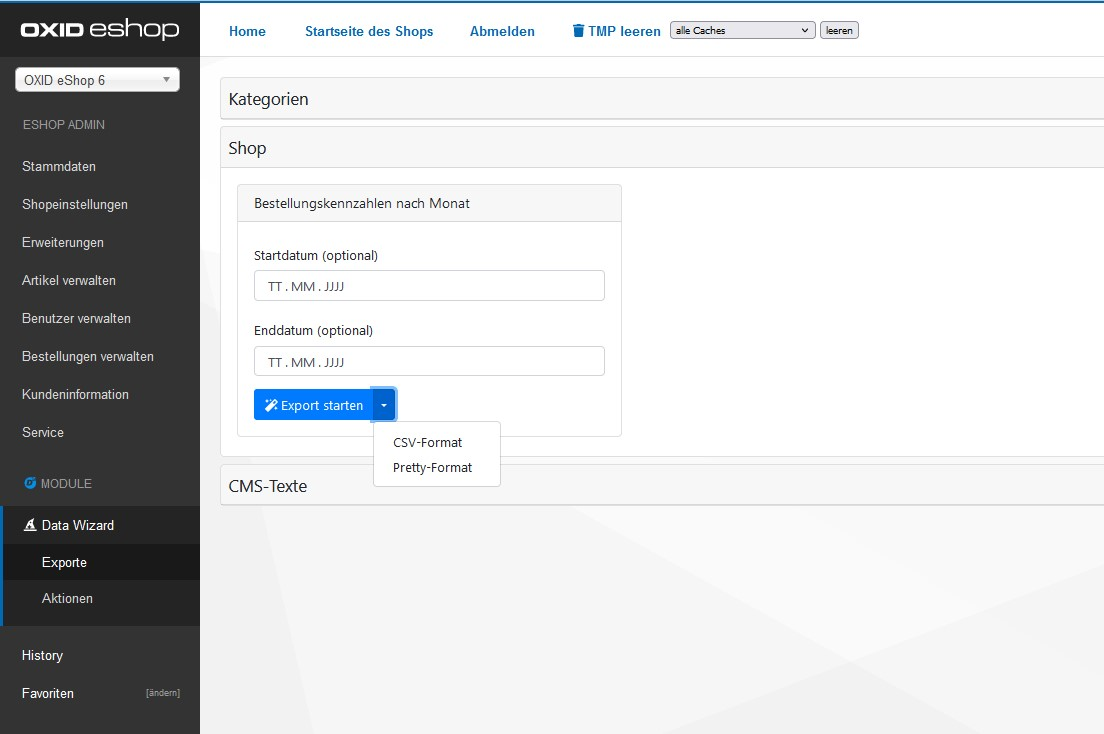
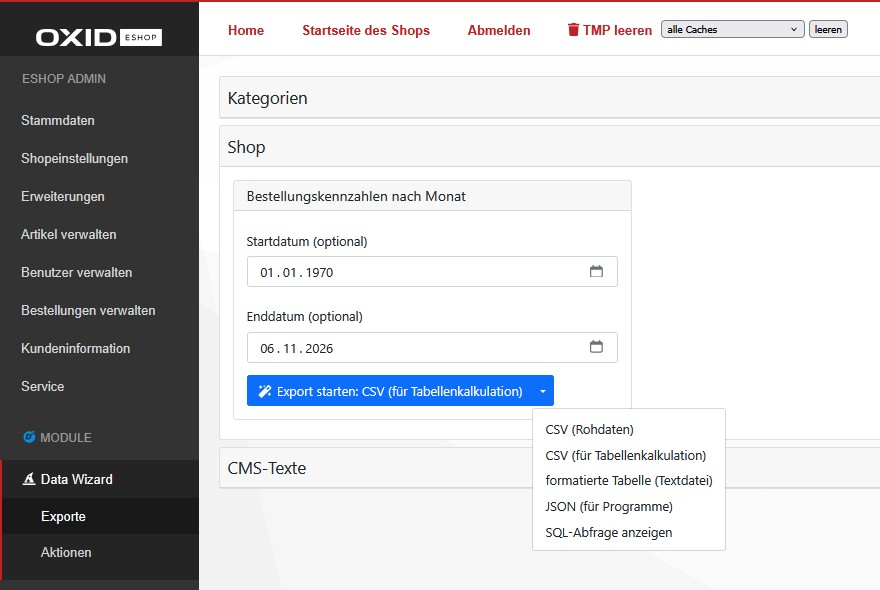
update documentation

diff --git a/Application/views/en/d3DataWizard_translations.php b/Application/views/en/d3DataWizard_translations.php
@@ -32,27 +32,28 @@ return [
     'D3_DATAWIZARD_GROUP_CMS'                         => 'CMS items',
     'D3_DATAWIZARD_GROUP_USERS'                       => 'users',
 
-    'D3_DATAWIZARD_EXPORT_SUBMIT'                     => 'generate export',
+    'D3_DATAWIZARD_EXPORT_SUBMIT'                     => 'Start export',
     'D3_DATAWIZARD_EXPORT_SUBMIT_FORMAT'              => '%1$s: %2$s',
     'D3_DATAWIZARD_EXPORT_FORMAT_CSV'                 => 'CSV (raw data)',
     'D3_DATAWIZARD_EXPORT_FORMAT_CSV_SPREADSHEET'     => 'CSV (for spreadsheets)',
     'D3_DATAWIZARD_QUERY_PREVIEW'                     => 'Show SQL query',
     'D3_DATAWIZARD_ACTION_OPTIONS'                    => 'Open action options',
-    'D3_DATAWIZARD_EXPORT_FORMAT_PRETTY'              => 'Pretty format',
-    'D3_DATAWIZARD_EXPORT_FORMAT_JSON'                => 'JSON format',
+    'D3_DATAWIZARD_EXPORT_OPTIONS'                    => 'Open export formats and other options',
+    'D3_DATAWIZARD_EXPORT_FORMAT_PRETTY'              => 'Formatted table (text file)',
+    'D3_DATAWIZARD_EXPORT_FORMAT_JSON'                => 'JSON (for programs)',
 
-    'D3_DATAWIZARD_ACTION_SUBMIT'                     => 'run action',
+    'D3_DATAWIZARD_ACTION_SUBMIT'                     => 'Start action',
     'D3_DATAWIZARD_ACTION_SUBMIT_CONFIRM'             => 'Should the action be executed?',
 
-    'D3_DATAWIZARD_DEBUG'                             => 'Debug: %1$s',
+    'D3_DATAWIZARD_DEBUG'                             => 'SQL query: %1$s',
 
-    'D3_DATAWIZARD_ERR_NOEXPORTSELECT'                => 'Export cannot be executed. Exports require SELECT Query.',
+    'D3_DATAWIZARD_ERR_NOEXPORTSELECT'                => 'The export cannot be run. Please contact your technical support.',
     'D3_DATAWIZARD_ERR_NOEXPORT_INSTALLED'            => 'No exports are installed or activated.',
     'D3_DATAWIZARD_ERR_NOEXPORTCONTENT'               => 'Export is empty, no content available for download',
-    'D3_DATAWIZARD_ERR_NOSUITABLERENDERER'            => 'No renderer registered for format "%1$s"',
+    'D3_DATAWIZARD_ERR_NOSUITABLERENDERER'            => 'The export format "%1$s" is not available.',
     'D3_DATAWIZARD_ERR_EXPORTFILEERROR'               => 'Export file "%1$s" cannot be created',
 
-    'D3_DATAWIZARD_ERR_ACTIONSELECT'                  => 'Action cannot be executed. Actions cannot export SELECTs.',
+    'D3_DATAWIZARD_ERR_ACTIONSELECT'                  => 'The action cannot be run. Please contact your technical support.',
     'D3_DATAWIZARD_ERR_NOACTION_INSTALLED'            => 'No actions are installed or activated.',
     'D3_DATAWIZARD_ERR_ACTIONRESULT'                  => '%1$s entry changed',
     'D3_DATAWIZARD_ERR_ACTIONRESULTS'                 => '%1$s entries changed',

diff --git a/Application/views/de/d3DataWizard_translations.php b/Application/views/de/d3DataWizard_translations.php
@@ -37,21 +37,22 @@ return [
     'D3_DATAWIZARD_EXPORT_FORMAT_CSV_SPREADSHEET'     => 'CSV (für Tabellenkalkulation)',
     'D3_DATAWIZARD_QUERY_PREVIEW'                     => 'SQL-Abfrage anzeigen',
     'D3_DATAWIZARD_ACTION_OPTIONS'                    => 'Aktionsoptionen öffnen',
-    'D3_DATAWIZARD_EXPORT_FORMAT_PRETTY'              => 'Pretty-Format',
-    'D3_DATAWIZARD_EXPORT_FORMAT_JSON'                => 'JSON-Format',
+    'D3_DATAWIZARD_EXPORT_OPTIONS'                    => 'Exportformate und weitere Optionen öffnen',
+    'D3_DATAWIZARD_EXPORT_FORMAT_PRETTY'              => 'formatierte Tabelle (Textdatei)',
+    'D3_DATAWIZARD_EXPORT_FORMAT_JSON'                => 'JSON (für Programme)',
 
     'D3_DATAWIZARD_ACTION_SUBMIT'                     => 'Aktion starten',
     'D3_DATAWIZARD_ACTION_SUBMIT_CONFIRM'             => 'Soll die Aktion gestartet werden?',
 
-    'D3_DATAWIZARD_DEBUG'                             => 'Debug: %1$s',
+    'D3_DATAWIZARD_DEBUG'                             => 'SQL-Abfrage: %1$s',
 
-    'D3_DATAWIZARD_ERR_NOEXPORTSELECT'                => 'Export kann nicht ausgeführt werden. Exporte erfordern SELECT Query.',
+    'D3_DATAWIZARD_ERR_NOEXPORTSELECT'                => 'Der Export kann nicht ausgeführt werden. Bitte wenden Sie sich an Ihre technische Betreuung.',
     'D3_DATAWIZARD_ERR_NOEXPORT_INSTALLED'            => 'Es sind keine Exporte installiert oder aktiviert.',
     'D3_DATAWIZARD_ERR_NOEXPORTCONTENT'               => 'Export ist leer, kein Inhalt zum Download verfügbar',
-    'D3_DATAWIZARD_ERR_NOSUITABLERENDERER'            => 'kein Renderer für Format "%1$s" registriert',
+    'D3_DATAWIZARD_ERR_NOSUITABLERENDERER'            => 'Das Exportformat "%1$s" ist nicht verfügbar.',
     'D3_DATAWIZARD_ERR_EXPORTFILEERROR'               => 'Exportdatei "%1$s" kann nicht angelegt werden',
 
-    'D3_DATAWIZARD_ERR_ACTIONSELECT'                  => 'Aktion kann nicht ausgeführt werden. Aktionen können keine SELECTs exportieren.',
+    'D3_DATAWIZARD_ERR_ACTIONSELECT'                  => 'Die Aktion kann nicht ausgeführt werden. Bitte wenden Sie sich an Ihre technische Betreuung.',
     'D3_DATAWIZARD_ERR_NOACTION_INSTALLED'            => 'Es sind keine Aktionen installiert oder aktiviert.',
     'D3_DATAWIZARD_ERR_ACTIONRESULT'                  => '%1$s Eintrag verändert',
     'D3_DATAWIZARD_ERR_ACTIONRESULTS'                 => '%1$s Einträge verändert',

diff --git a/tests/unit/Application/Model/Exceptions/NoSuitableRendererExceptionTest.php b/tests/unit/Application/Model/Exceptions/NoSuitableRendererExceptionTest.php
@@ -44,7 +44,7 @@ class NoSuitableRendererExceptionTest extends d3ModCfgUnitTestCase
         $this->_oModel = oxNew(NoSuitableRendererException::class, 'testMessage', $exception);
 
         $this->assertStringContainsString(
-            'kein Renderer f',
+            'Das Exportformat',
             $this->callMethod(
                 $this->_oModel,
                 'getMessage'

diff --git a/tests/unit/Application/Model/Exceptions/DebugExceptionTest.php b/tests/unit/Application/Model/Exceptions/DebugExceptionTest.php
@@ -44,7 +44,7 @@ class DebugExceptionTest extends d3ModCfgUnitTestCase
         $this->_oModel = oxNew(DebugException::class, 'testMessage', $exception);
 
         $this->assertStringContainsString(
-            'Debug: testMessage',
+            'SQL-Abfrage: testMessage',
             $this->callMethod(
                 $this->_oModel,
                 'getMessage'

diff --git a/README.md b/README.md
@@ -3,15 +3,11 @@
 
 # D³ Data Wizard für OXID eShop
 
-Das Modul `DataWizard` bietet ein Framework zur einfachen Integration von Exporten und ausführbaren Tasks über den Adminbereich des OXID Shops.
+Der Data Wizard stellt im OXID-Adminbereich Exporte und Aktionen bereit. Exporte bereiten Daten für den Download auf; Aktionen können Daten im Shop verändern. Die verfügbaren Einträge sind zur besseren Übersicht in Gruppen zusammengefasst.
 
-Die Exporte werden über Datenbankabfragen oder fertige Datenlisten definiert. Es stehen verschiedene Exportformate zur Verfügung. Die Generierung ist jederzeit und immer wiederkehrend möglich (im Rahmen der Systemgrenzen). Diese werden im Browser als Download angeboten.
+Das Grundmodul enthält selbst keine Exporte oder Aktionen. Diese werden durch Erweiterungen wie `d3/datawizardtasks` oder durch individuelle Anpassungen bereitgestellt.
 
-Alle Exporte bzw. Tasks sind für eine bessere Übersichtlichkeit in Gruppen zusammengefasst.
-
-Im Paket `d3/datawizardtasks` sind Beispielexporte enthalten. Diese sollen als Implementierungsreferenz für individuelle Exporte dienen.
-
-![Adminbereich](assets/administration_exports.jpg "Adminbereich")
+![Beispiel eines Exports im Adminbereich mit geöffnetem Formatmenü](assets/administration_exports.jpg)
 
 ## Inhaltsverzeichnis
 
@@ -28,38 +24,45 @@ Im Paket `d3/datawizardtasks` sind Beispielexporte enthalten. Diese sollen als I
 
 Dieses Paket erfordert einen mit Composer installierten OXID eShop in einer in der [composer.json](composer.json) definierten Version.
 
-Öffnen Sie eine Kommandozeile und navigieren Sie zum Stammverzeichnis des Shops (Elternverzeichnis von source und vendor). Führen Sie den folgenden Befehl aus. Passen Sie die Pfadangaben an Ihre Installationsumgebung an.
+Lassen Sie die Installation bei Bedarf von Ihrer technischen Betreuung durchführen. Wechseln Sie auf der Kommandozeile in das Stammverzeichnis des Shops (das Verzeichnis mit `source` und `vendor`) und führen Sie folgenden Befehl aus:
 
 
 ```bash
-php composer require d3/datawizard:^3.0
+composer require d3/datawizard:^3.0
 ``` 
 
 Aktivieren Sie das Modul im Shopadmin unter "Erweiterungen -> Module".
 
 ## Verwendung
 
-Dieses Paket enthält keine Exporte oder Aktionen. In [Erweiterungspakete](#erweiterungspakete) finden Sie installierbare Beispieleinträge.
+1. Melden Sie sich im Adminbereich an und öffnen Sie „D³ Module → Data Wizard → Exporte“ oder „Aktionen“.
+2. Öffnen Sie die gewünschte Gruppe und füllen Sie gegebenenfalls die Felder des Eintrags aus. Welche Einträge und Felder verfügbar sind, hängt von den installierten Erweiterungen ab.
+3. Für einen Export klicken Sie auf „Export starten“. Die Datei wird über Ihren Browser heruntergeladen. Mit dem Pfeil rechts neben dem Button können Sie ein anderes Format auswählen.
+4. Für eine Aktion klicken Sie auf „Aktion starten“ und bestätigen die Rückfrage. Aktionen können Shopdaten verändern. Nach erfolgreicher Ausführung zeigt eine Standardaktion an, wie viele Einträge verändert wurden.
 
-Melden Sie sich im Adminbereich Ihres Shops an und navigieren Sie zu "D³ Module -> Data Wizard". Wechseln Sie je nach Wunsch zu "Exporte" oder "Aktionen". Wählen Sie den gewünschten Eintrag und starten Sie den Export bzw. die Aktion.
+Falls keine Einträge angezeigt werden, muss eine passende Erweiterung installiert und aktiviert oder ein individueller Eintrag eingerichtet werden. Wenden Sie sich dafür an Ihre technische Betreuung.
 
-Über „SQL-Abfrage anzeigen“ im Aufklappmenü eines Exports oder einer Aktion lässt sich die vorbereitete Abfrage mit ihren Parametern anzeigen, ohne sie auszuführen oder eine Exportdatei zu erzeugen.
+Über den Pfeil rechts neben dem Start-Button können Sie bei Exporten und Aktionen „SQL-Abfrage anzeigen“ wählen. Die Abfrage wird dann angezeigt, aber nicht ausgeführt; es wird keine Datei erstellt. Diese Ansicht ist vor allem für die technische Betreuung gedacht.
+
+Die SQL-Vorschau erscheint derzeit im Meldungsbereich, der auch für Fehler verwendet wird. Sie bedeutet für sich genommen nicht, dass die Abfrage ausgeführt wurde.
 
 ### CSV und Tabellenkalkulation
 
-Der primäre Export-Button im Adminbereich verwendet `CSV (für Tabellenkalkulation)`; das gilt auch für Admin-Anfragen ohne Formatangabe. Das Formatmenü bietet weiterhin `CSV` (Rohdaten), das Feldnamen und Werte unverändert für die maschinelle Weiterverarbeitung ausgibt. Rohdaten-CSV schützt nicht vor Formeln in Tabellenkalkulationsprogrammen. Bei programmatischen Aufrufen bleibt `CSV` das Standardformat.
+Der Hauptbutton erstellt „CSV (für Tabellenkalkulation)“. Wählen Sie dieses Format, wenn Sie die Datei beispielsweise in Excel oder LibreOffice Calc öffnen möchten. Zum Schutz vor unbeabsichtigt ausgeführten Formeln werden bestimmte Zellinhalte mit einem Apostroph versehen; dadurch können sich Werte ändern. Das Verhalten hängt vom Tabellenprogramm und seinen Import- und Speicheroptionen ab. Insbesondere kann erneutes Speichern den Schutz verändern; eine Garantie für alle Programme besteht nicht.
 
-Der technische Name des Tabellenkalkulationsformats ist `CSV_SPREADSHEET`. Dieses Format stellt verdächtigen Feldnamen und Werten ein Apostroph voran, auch wenn Formelzeichen erst nach führenden Leer- oder Steuerzeichen auftreten. Dadurch verändern sich die exportierten Daten: Beispielsweise wird der Text `-123` zu `'-123`. Trennzeichen und Anführungszeichen werden weiterhin vom CSV-Writer kodiert.
-
-Das Verhalten hängt vom Tabellenkalkulationsprogramm und dessen Import- und Speicheroptionen ab. Insbesondere kann ein erneutes Speichern oder Exportieren Schutzzeichen verändern; eine universelle Garantie für alle Programme und nachfolgenden Verarbeitungsschritte besteht nicht. Für unveränderte Daten das Rohdatenformat verwenden.
+Im Aufklappmenü stehen außerdem „CSV (Rohdaten)“ für unveränderte Werte, „formatierte Tabelle (Textdatei)“ für eine lesbare Texttabelle und „JSON (für Programme)“ für die technische Weiterverarbeitung zur Verfügung. Öffnen Sie Rohdaten-CSV mit fremdbeeinflussbaren Inhalten nicht unbedacht in einem Tabellenprogramm: Solche Inhalte können als Formeln interpretiert werden.
 
 ### Große Exporte
 
-Die eingebauten Formate `CSV`, `CSV_SPREADSHEET` und `JSON` verarbeiten die Ergebniszeilen beim normalen Datei- und Browserexport schrittweise und verwenden eine temporäre Datei. Dafür muss im temporären Verzeichnis ausreichend Speicherplatz vorhanden sein. Je nach Datenbanktreiber und dessen Konfiguration können Abfrageergebnisse zusätzlich vom Treiber gepuffert werden; der Speicherbedarf ist daher nicht in jeder Umgebung konstant. `Pretty`, direkte Aufrufe von `getContent()` sowie individuell angepasste Export- und Rendererklassen verwenden weiterhin den bisherigen speicherbasierten Ablauf.
-
-Bei Exporten in ein Zielverzeichnis wird die fertige Datei über einen Hardlink atomar veröffentlicht, ohne vorhandene Dateien zu überschreiben. Das Zielverzeichnis muss Hardlinks unterstützen und ausreichend Speicherplatz für die temporäre Datei bieten. Nach einem abrupten Prozessabbruch können Dateien mit dem Namen `.d3export_*.tmp` zurückbleiben; nicht mehr verwendete temporäre Dateien können entfernt werden.
+Große Exporte können Zeit sowie ausreichend Arbeitsspeicher und Speicherplatz auf dem Server benötigen. Falls ein Export abbricht oder keine Datei heruntergeladen wird, wenden Sie sich mit dem Namen des Exports und einer gegebenenfalls angezeigten Fehlermeldung an Ihre technische Betreuung.
 
 ## Erweiterbarkeit
+
+Die folgenden Hinweise richten sich an Entwicklerinnen und Entwickler.
+
+Die eingebauten Formate `CSV`, `CSV_SPREADSHEET` und `JSON` verarbeiten Ergebniszeilen beim normalen Datei- und Browserexport schrittweise und verwenden eine temporäre Datei. Der Datenbanktreiber kann Ergebnisse dennoch puffern. `Pretty`, direkte Aufrufe von `getContent()` und angepasste Export- oder Rendererklassen können weiterhin mehr Speicher benötigen. Programmatische Aufrufe verwenden standardmäßig Rohdaten-CSV.
+
+Bei programmatischen Exporten in ein Zielverzeichnis wird die fertige Datei über einen Hardlink atomar veröffentlicht, ohne vorhandene Dateien zu überschreiben. Das Zielverzeichnis muss Hardlinks unterstützen und Platz für die temporäre Datei bieten. Nach einem abrupten Prozessabbruch können `.d3export_*.tmp`-Dateien zurückbleiben; nicht mehr verwendete temporäre Dateien können entfernt werden.
 
 Nach einer erfolgreich ausgeführten Standard-Action liefert `getActionResult()` ein `ActionResult` mit der Anzahl betroffener Zeilen über `getAffectedRows()`. Vor der Ausführung und nach einem Fehler ist das Ergebnis `null`; Fehler werden weiterhin als Exceptions gemeldet. Die Signaturen von `run()` und `executeAction()` bleiben unverändert. Eigene Actions, die diese Methoden überschreiben, können das geschützte Feld `$actionResult` selbst setzen.
 

diff --git a/README.en.md b/README.en.md
@@ -3,15 +3,11 @@
 
 # D³ Data Wizard for OXID eShop
 
-The module `DataWizard` offers a framework for the simple integration of exports via the admin area of the OXID shop.
+Data Wizard provides exports and actions in the OXID admin area. Exports prepare data for download; actions can change shop data. Available items are organized into groups.
 
-The exports are defined via database queries or ready-made data lists. Various export formats are available. The generation is possible at any time and always recurring (within the system limits). These are offered as downloads in the browser.
+The base module does not contain exports or actions itself. They are supplied by extensions such as `d3/datawizardtasks` or by custom implementations.
 
-All exports and tasks are grouped together for better clarity.
-
-Sample exports are included in the package `d3/datawizardtasks`. These are intended to serve as an implementation reference for individual exports.
-
-![administration area](assets/administration_exports.jpg "administration area")
+![Example export in the admin area with the format menu open](assets/administration_exports.jpg)
 
 ## Table of content
 
@@ -28,37 +24,44 @@ Sample exports are included in the package `d3/datawizardtasks`. These are inten
 
 This package requires an Composer installed OXID eShop as defined in [composer.json](composer.json).
 
-Open a command line interface and navigate to the shop root directory (parent of source and vendor). Execute the following command. Adapt the paths to your environment.
+Ask your technical support to install the module if needed. On the command line, navigate to the shop root directory (the directory containing `source` and `vendor`) and run:
 
 ```bash
-php composer require d3/datawizard:^3.0
+composer require d3/datawizard:^3.0
 ``` 
 
 Activate the module in the admin area of the shop in "Extensions -> Modules".
 
 ## Usage
 
-These package doesn't contain any export or action items. See [Extension packages](#extension_packages) for installable example items.
+1. Log in to the admin area and open “D³ Modules → Data Wizard → Exports” or “Actions”.
+2. Open the desired group and fill in any fields for the item. Available items and fields depend on the installed extensions.
+3. To export, click “Start export”. Your browser downloads the file. Use the arrow to the right of the button to choose another format.
+4. To run an action, click “Start action” and confirm the prompt. Actions can change shop data. After successful execution, a standard action reports how many entries were changed.
 
-Log in to the admin area of your shop and navigate to "D³ Modules -> Data Wizard". Go to "Exports" or "Actions" (as desired). Choose your desired item and export or execute it.
+If no items are displayed, a suitable extension must be installed and activated or a custom item configured. Contact your technical support for help.
 
-Select “Show SQL query” from an export's or action's dropdown menu to display the prepared query with its parameters without executing it or creating an export file.
+Use the arrow next to the start button on an export or action to select “Show SQL query”. This displays the query without executing it or creating a file. The view is primarily intended for technical support.
+
+The SQL preview currently appears in the message area also used for errors. It does not by itself mean that the query has been executed.
 
 ### CSV and spreadsheets
 
-The primary export button in the admin area uses `CSV (for spreadsheets)`; admin requests without a format use it as well. The format menu still offers `CSV` (raw data), which leaves field names and values unchanged for machine processing. Raw CSV does not protect spreadsheet users from formulas. Programmatic calls continue to default to `CSV`.
+The main button creates “CSV (for spreadsheets)”. Choose this format when opening the file in Excel or LibreOffice Calc, for example. To reduce the risk of accidentally executed formulas, some cell values are prefixed with an apostrophe; this can change their contents. Behavior depends on the spreadsheet application and its import and save settings. Saving again can change the protection, and safety cannot be guaranteed for every application.
 
-The technical name of the spreadsheet format is `CSV_SPREADSHEET`. It prefixes suspicious field names and values with an apostrophe, including formula characters following leading whitespace or control characters. This changes the exported data: for example, the text `-123` becomes `'-123`. The CSV writer still handles delimiters and quotation marks.
-
-Behavior depends on the spreadsheet application and its import and save settings. In particular, saving or exporting again can change the protective prefix; the format cannot guarantee safety in every application or subsequent processing step. Use the raw format when unchanged data is required.
+The dropdown also offers “CSV (raw data)” for unchanged values, “Table (text file)” for a readable text table, and “JSON (for programs)” for automated processing. Take care when opening raw CSV containing data that others can influence in a spreadsheet: such values may be interpreted as formulas.
 
 ### Large exports
 
-The built-in `CSV`, `CSV_SPREADSHEET` and `JSON` formats process result rows incrementally for normal file and browser exports, using a temporary file. The temporary directory must have sufficient disk space. Depending on the database driver and its configuration, the driver may still buffer query results, so memory usage is not necessarily constant. `Pretty`, direct calls to `getContent()`, and customized export or renderer classes continue to use the existing in-memory path.
-
-For exports to a target directory, the completed file is published atomically using a hard link without overwriting existing files. The target directory must support hard links and have sufficient space for the temporary file. An abrupt process termination may leave `.d3export_*.tmp` files behind; temporary files that are no longer in use can be removed.
+Large exports can take time and require sufficient server memory and disk space. If an export fails or no file is downloaded, contact your technical support with the export name and any error message displayed.
 
 ## Extensibility
+
+The following notes are intended for developers.
+
+The built-in `CSV`, `CSV_SPREADSHEET` and `JSON` formats process rows incrementally for normal file and browser exports, using a temporary file. The database driver may still buffer results. `Pretty`, direct calls to `getContent()`, and customized export or renderer classes may continue to use more memory. Programmatic calls default to raw CSV.
+
+For programmatic exports to a target directory, the completed file is published atomically using a hard link without overwriting existing files. The target directory must support hard links and have space for the temporary file. An abrupt process termination may leave `.d3export_*.tmp` files behind; temporary files that are no longer in use can be removed.
 
 After a standard action completes successfully, `getActionResult()` returns an `ActionResult` whose `getAffectedRows()` method reports the affected row count. Before execution and after an error the result is `null`; errors continue to be reported as exceptions. The signatures of `run()` and `executeAction()` are unchanged. Custom actions overriding these methods can set the protected `$actionResult` property themselves.
 

diff --git a/CHANGELOG.md b/CHANGELOG.md
@@ -4,14 +4,28 @@ All notable changes to this project will be documented in this file.
 The format is based on [Keep a Changelog](https://keepachangelog.com/en/1.0.0/),
 and this project adheres to [Semantic Versioning](https://semver.org/spec/v2.0.0.html).
 
-## [unreleased](https://git.d3data.de/D3Public/DataWizard/compare/3.0.0.0...rel_3.x) - 2023-09-12
-### Added
-- installable in OXID 7.2
-- box template can changed by every task
-- SQL query can generated before request
+## [Unreleased](https://git.d3data.de/D3Public/DataWizard/compare/3.0.0.0...rel_3.x)
 
-### changed
-- use assertion exceptions
+### Added
+- Support for OXID eShop 7.2 through 7.5.
+- Configurable box templates for individual exports and actions.
+- Spreadsheet-safe CSV export format that neutralizes potential formula prefixes.
+- An option on each export and action to preview its SQL query without executing it.
+
+### Changed
+- Use spreadsheet-safe CSV for the primary admin export button; raw CSV remains available.
+- Process rows incrementally for built-in CSV and JSON exports to reduce PHP memory usage.
+- Report successful actions and their affected row count as a result instead of an exception.
+- Serve admin JavaScript and styles locally rather than loading them from CDNs.
+- Update the CSV dependency and replace deprecated League CSV calls.
+- Use assertion exceptions for validation.
+
+### Fixed
+- Prevent exports with colliding file names from overwriting existing files.
+- Publish file exports atomically so consumers do not see partially written files.
+
+### Removed
+- The global debug setting; SQL query previews are selected per export or action.
 
 ## [3.0.0.0](https://git.d3data.de/D3Public/DataWizard/compare/2.1.1.3...3.0.0.0) - 2024-05-13
 ### Added
